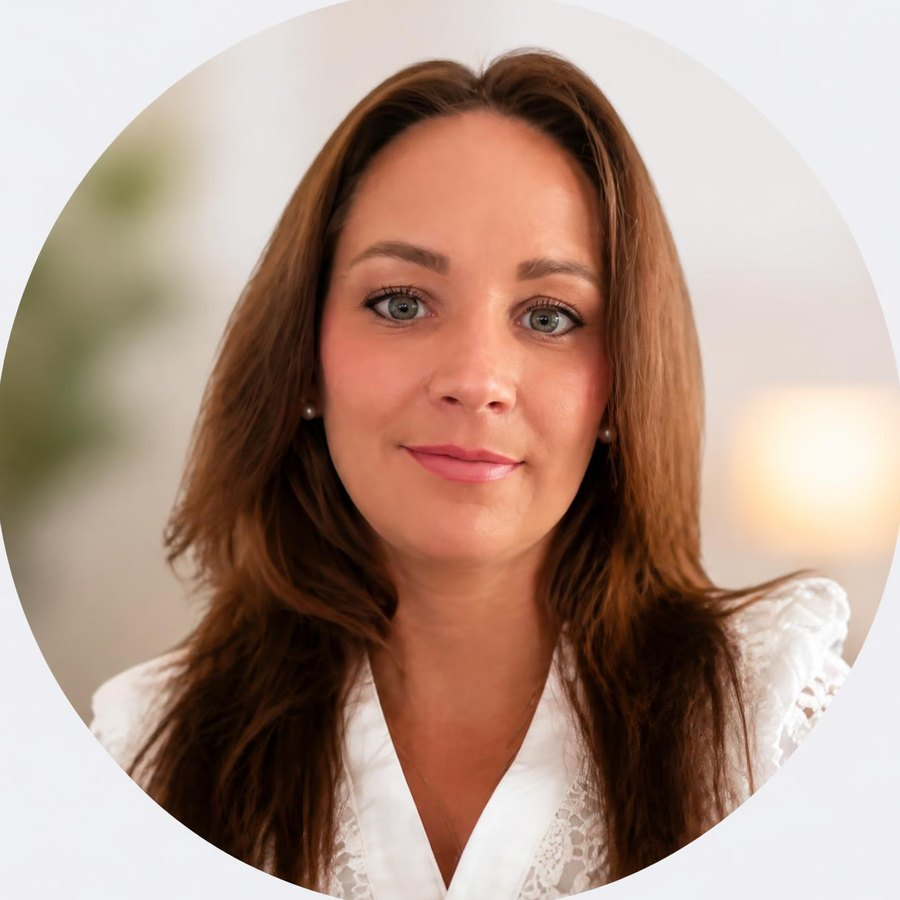
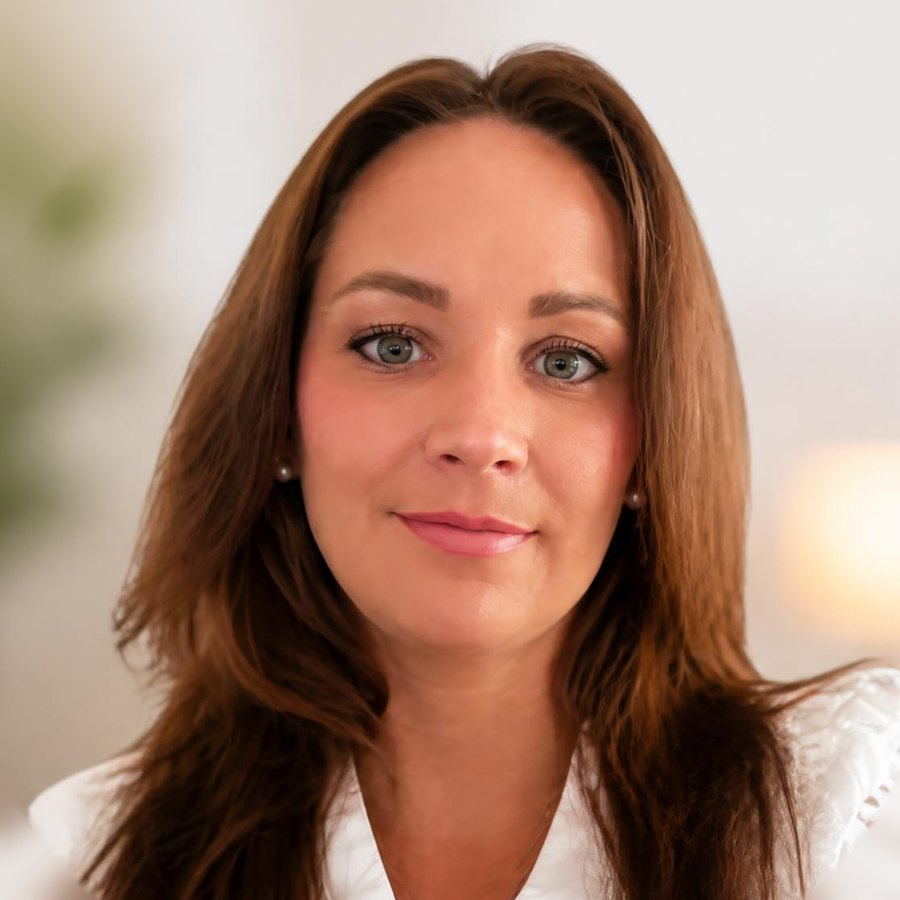
Startseite: quadratisches Porträt mit Beere-Schatten, Länderhinweis oben entfernt
Claude-Session: https://claude.ai/code/session_01VW6QF6uxvpychbTosFwRhy

diff --git a/start.html b/start.html
@@ -30,11 +30,10 @@
         <div class="mikro">
           <span><svg class="ic"><use href="assets/icons.svg#schild"/></svg>Schnell-weg-Knopf</span>
           <span><svg class="ic"><use href="assets/icons.svg#schloss"/></svg>Bleibt auf deinem Gerät</span>
-          <span><svg class="ic"><use href="assets/icons.svg#herz"/></svg>Für CH · DE · AT</span>
         </div>
       </div>
       <div class="bild-seite">
-        <div class="foto-buehne rund">
+        <div class="foto-buehne quadrat">
           <div class="foto"><img src="assets/bilder/ich-portrait.jpg" alt="Die Gründerin von Seelenwende" width="900" height="900"></div>
           <div class="schwebe-karte oben-rechts" aria-hidden="true"><span class="ic-rund"><svg class="ic"><use href="assets/icons.svg#chat"/></svg></span><div><small>Mira, 3:12 Uhr</small><b>„Du bildest dir das nicht ein.“</b></div></div>
           <div class="schwebe-karte unten-links" aria-hidden="true"><span class="ic-rund"><svg class="ic"><use href="assets/icons.svg#herz"/></svg></span><div><b>15 Jahre selbst erlebt</b><small>Seit letztem Jahr draußen</small></div></div>

diff --git a/assets/seite.css b/assets/seite.css
@@ -829,3 +829,6 @@ h1, h2, h3{letter-spacing:-.015em;}
 .foto-buehne.rund .schwebe-karte.oben-rechts{top:4px; right:-40px;}
 .foto-buehne.rund .schwebe-karte.unten-links{bottom:10px; left:-40px;}
 @media (max-width:520px){ .foto-buehne.rund .schwebe-karte.oben-rechts{right:-8px; top:-12px;} .foto-buehne.rund .schwebe-karte.unten-links{left:-8px; bottom:-4px;} }
+/* Quadratisches Porträt im Held (Startseite) */
+.foto-buehne.quadrat{width:min(420px, 78vw);}
+.foto-buehne.quadrat .foto{aspect-ratio:1;}
